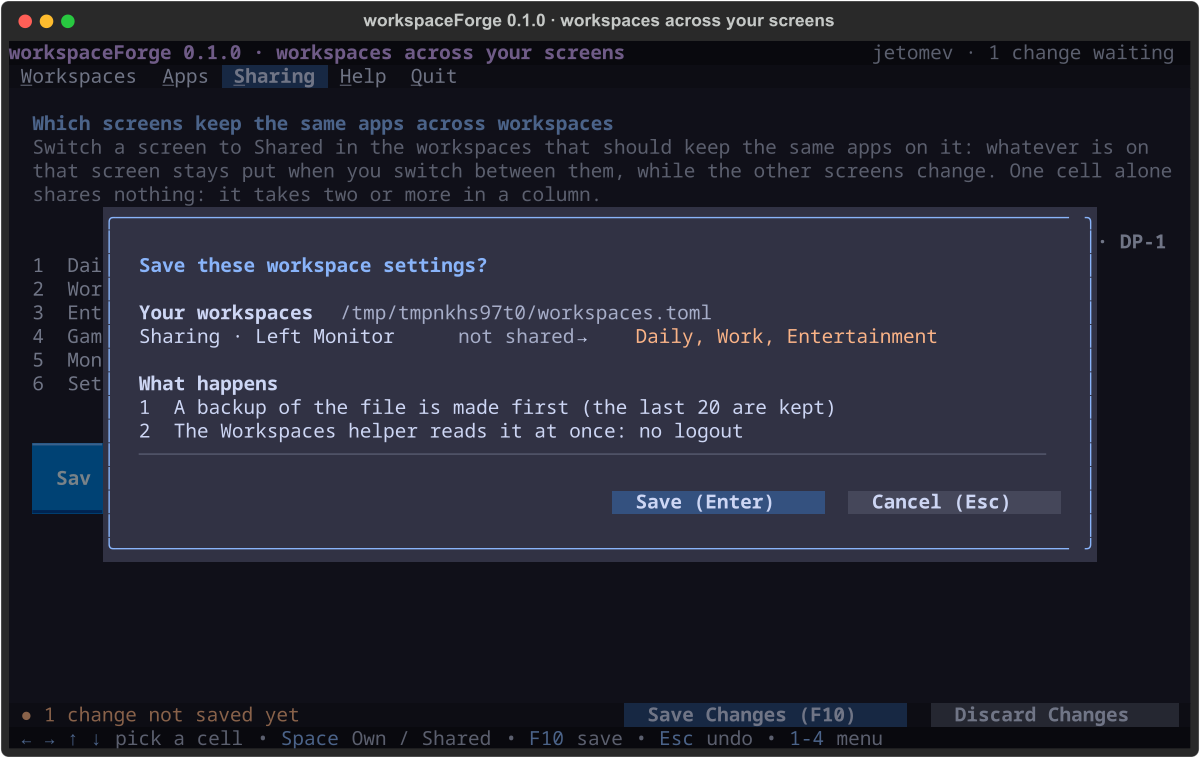
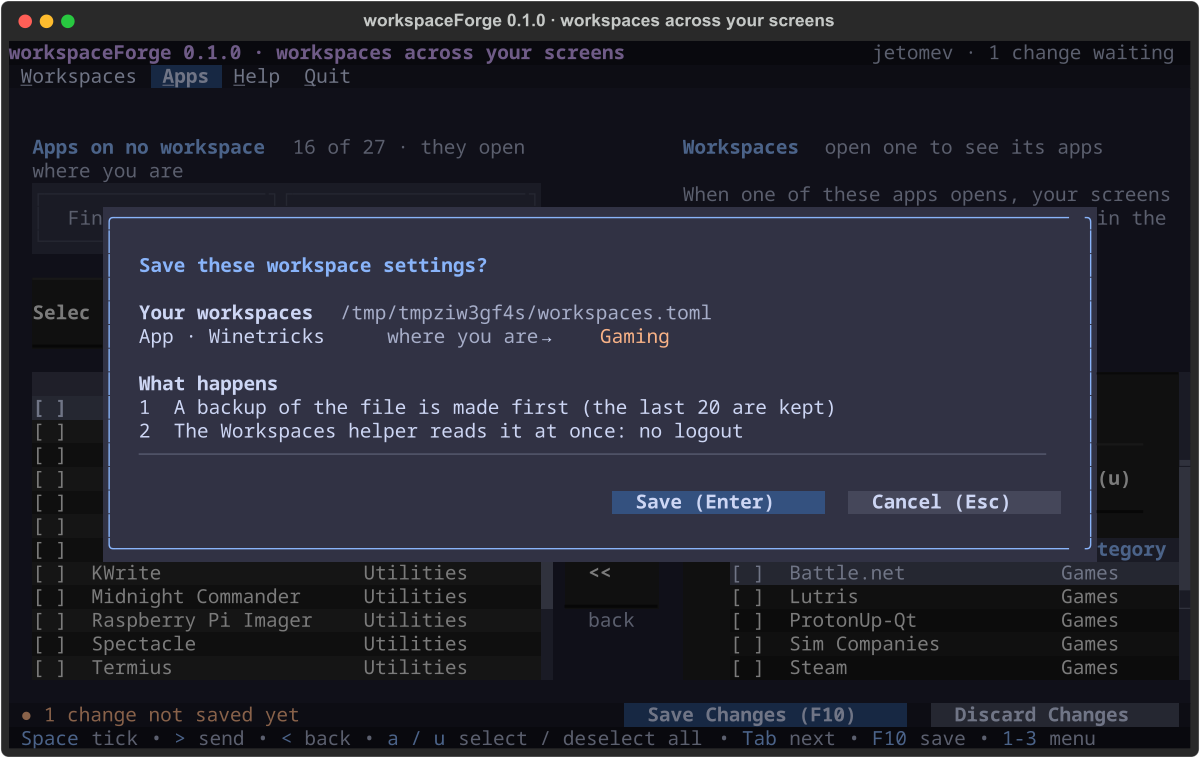
feat(workspaceforge): Sharing off the menu for now (Javier, D-7)
"Sharing. Not working for me, have to think better about this
section" — then "take sharing off for now". The page leaves the menu
and the manual; SharingView stays in app.py, dormant. Saving keeps
whatever the settings file says about sharing (a test, seen failing
with the sharing dropped). 33 tests.

diff --git a/workspaceforge/tests/test_app.py b/workspaceforge/tests/test_app.py
@@ -12,7 +12,7 @@ from pathlib import Path
 from textual.widgets import Collapsible, Input, OptionList
 
 from workspaceforge import model as M
-from workspaceforge.app import AppsView, ShareCell, SharingView, TickTable, WorkspaceForgeApp, WorkspacesView
+from workspaceforge.app import AppsView, TickTable, WorkspaceForgeApp, WorkspacesView
 from workspaceforge.live import NoDesktop
 
 FILE = '''
@@ -77,16 +77,14 @@ class Pages(unittest.TestCase):
     # -- the frame -------------------------------------------------------------------------------------
     def test_the_menu_and_its_keys(self):
         app = self.make()
-        self.assertEqual([m["title"] for m in app.MENU], ["Workspaces", "Apps", "Sharing", "Help", "Quit"])
-        self.assertEqual([m.get("acc") for m in app.MENU[:4]], ["w", "a", "s", "h"])
+        self.assertEqual([m["title"] for m in app.MENU], ["Workspaces", "Apps", "Help", "Quit"],
+                         "Sharing is off the menu for now (D-7)")
+        self.assertEqual([m.get("acc") for m in app.MENU[:3]], ["w", "a", "h"])
 
         async def go():
             async with app.run_test(size=(100, 30)) as pilot:
                 await pilot.press("2")
                 self.assertTrue(app.query_one("#sec-apps").display)
-                await pilot.press("ctrl+s")
-                await pilot.pause()
-                self.assertTrue(app.query_one("#sec-sharing").display)
                 await pilot.press("ctrl+w")
                 await pilot.pause()
                 self.assertTrue(app.query_one("#sec-workspaces").display)
@@ -269,30 +267,22 @@ class Pages(unittest.TestCase):
                 self.assertEqual(pool.shown_ids(), ["winetricks", "gimp", "galculator"])
         run(go())
 
-    # -- 3 · Sharing ---------------------------------------------------------------------------------------
-    def test_a_switch_per_cell(self):
+    # -- sharing, off the menu for now (D-7) -------------------------------------------------------------
+    def test_saving_keeps_the_files_sharing(self):
+        self.path.write_text(FILE.replace('"DP-2" = []', '"DP-2" = [["Daily", "Work"]]'))
         app = self.make()
 
         async def go():
             async with app.run_test(size=(100, 30)) as pilot:
-                await pilot.press("3")
+                await pilot.pause()
+                app.session.rename(self.uid(app, "Gaming"), "Games")
+                await pilot.press("f10")
+                await pilot.pause()
+                await pilot.press("enter")
                 await pilot.pause()
                 await pilot.pause()
-                cells = list(app.query(ShareCell))
-                self.assertEqual(len(cells), 4 * 3)
-                left_daily = app.query_one(f"#sc-{self.uid(app, 'Daily')}-1", ShareCell)
-                left_work = app.query_one(f"#sc-{self.uid(app, 'Work')}-1", ShareCell)
-                left_daily.focus()
-                await pilot.press("space")
-                self.assertEqual(app.session.change_count, 0, "one cell alone shares nothing")
-                await pilot.press("down", "space")
-                await pilot.pause()
-                self.assertIs(app.focused, left_work, "arrows move between the switches")
-                self.assertIn(("Sharing · DP-2", "not shared", "Daily, Work"), app.session.changes())
-                await pilot.press("escape")
-                await pilot.pause()
-                self.assertEqual(app.session.change_count, 0, "Esc undoes the sharing changes")
         run(go())
+        self.assertEqual(tomllib.loads(self.path.read_text())["share"]["DP-2"], [["Daily", "Work"]])
 
     # -- saving and quitting -------------------------------------------------------------------------------
     def test_save_reviews_backs_up_moves_windows_and_reloads(self):
@@ -356,7 +346,7 @@ class Drawing(unittest.TestCase):
 
             async def go():
                 async with app.run_test(size=(100, 30)) as pilot:
-                    for key in ("1", "2", "3"):
+                    for key in ("1", "2"):
                         await pilot.press(key)
                         await pilot.pause()
                         for w in app.screen.query("Button"):

diff --git a/workspaceforge/workspaceforge/app.py b/workspaceforge/workspaceforge/app.py
@@ -881,23 +881,22 @@ class WorkspaceForgeApp(ForgeApp):
     MENU = [
         {"id": "workspaces", "title": "Workspaces", "kind": "section"},
         {"id": "apps", "title": "Apps", "kind": "section"},
-        {"id": "sharing", "title": "Sharing", "kind": "section"},
         {"id": "help", "title": "Help", "kind": "menu", "items": [
             ("Manual", "m", "manual"), ("Keys", "k", "shortcuts"), ("License", "l", "license"),
             ("About", "a", "about")]},
         {"id": "quit", "title": "Quit", "kind": "action", "action": "quit"},
     ]
     SHORTCUTS = [
-        ("1-4, Ctrl+letter", "go to a menu entry: 1 Workspaces · 2 Apps · 3 Sharing · 4 Help"),
+        ("1-3, Ctrl+letter", "go to a menu entry: 1 Workspaces · 2 Apps · 3 Help"),
         ("↑ ↓", "pick a workspace (Workspaces) · move in a table (Apps)"),
         ("n · e · d", "new · edit · delete a workspace (Workspaces)"),
         ("+ · -", "move the picked workspace up · down: its Win number changes"),
-        ("Space", "tick an app (Apps) · switch a cell between Own and Shared (Sharing)"),
+        ("Space", "tick an app (Apps)"),
         ("> · <", "send the ticked apps to the open workspace · back to the list (Apps)"),
         ("a · u", "select all · deselect all, only the rows showing (Apps)"),
         ("Tab / Shift+Tab", "next / previous field, table or button"),
         ("F10", "save, with a review first"),
-        ("Esc", "cancel a new name or an edit · undo the sharing changes · close a window"),
+        ("Esc", "cancel a new name or an edit · close a window"),
         ("M", "the manual"),
         ("?", "this list"),
         ("Q or Ctrl+Q", "quit; asks to save anything not saved (not inside hypeForge Settings)"),
@@ -935,7 +934,8 @@ class WorkspaceForgeApp(ForgeApp):
     def compose_sections(self) -> ComposeResult:
         yield WorkspacesView(self.session, self.live, id="sec-workspaces")
         yield AppsView(self.session, self.installed, id="sec-apps")
-        yield SharingView(self.session, id="sec-sharing")
+        # Sharing is off the menu for now (Javier, 2026-10-09, D-7: "have to think better about this
+        # section"); SharingView stays below for when it comes back. Saving keeps the file's sharing.
 
     def on_mount(self) -> None:
         super().on_mount()
@@ -959,8 +959,6 @@ class WorkspaceForgeApp(ForgeApp):
         elif section_id == "apps":
             self.query_one(AppsView).refresh_view()
             self.call_after_refresh(self.query_one("#wf-pool").focus)
-        elif section_id == "sharing":
-            self.query_one(SharingView).refresh_view()
 
     def refresh_state(self) -> None:
         n = self.session.change_count
@@ -981,7 +979,6 @@ class WorkspaceForgeApp(ForgeApp):
             self.query_one(WorkspacesView).renamed = None
             self.query_one(WorkspacesView).refresh_view()
             self.query_one(AppsView).refresh_view()
-            self.query_one(SharingView).refresh_view()
             self.refresh_state()
             self.notify("Changes discarded. Nothing was changed.")
 
@@ -1022,7 +1019,6 @@ class WorkspaceForgeApp(ForgeApp):
             ws.picked is None or not se.pending.has(ws.picked)) else ws.picked
         ws.refresh_view()
         self.query_one(AppsView).refresh_view()
-        self.query_one(SharingView).refresh_view()
         self.refresh_state()
         self.notify(f"Saved to {path}" + (" (old one backed up)" if backup else "") +
                     (". Your workspaces changed at once." if reloaded else

diff --git a/workspaceforge/scripts/make-screenshots.py b/workspaceforge/scripts/make-screenshots.py
@@ -76,13 +76,8 @@ async def shots():
         pool = app.query_one("#wf-pool")
         pool.set_tick("winetricks", True)
         await shot("apps")
-        await pilot.press("3")
-        for name in ("Daily", "Work", "Entertainment"):
-            se.set_shared("DP-2", uid(name), True)
-        app.query_one("#sec-sharing").shown = ()
-        app.query_one("#sec-sharing").refresh_view()
+        app.session.assign(["winetricks"], uid("Gaming"))
         app.refresh_state()
-        await shot("sharing")
         await pilot.press("f10")
         await shot("save")
 

diff --git a/workspaceforge/README.md b/workspaceforge/README.md
@@ -11,22 +11,22 @@
 
 # workspaceForge
 
-**Your workspaces, in the terminal.** On the KognogOS desktop a workspace covers all your screens at once: Win + 4 takes every screen to Gaming. workspaceForge is where you set them up: their names and order, **which apps open on each one** (however you start them), and which screens keep the same apps across workspaces. Today all of that lives in a settings file edited by hand; workspaceForge is the friendly way in.
+**Your workspaces, in the terminal.** On the KognogOS desktop a workspace covers all your screens at once: Win + 4 takes every screen to Gaming. workspaceForge is where you set them up: their names and order, **which apps open on each one** (however you start them). Today all of that lives in a settings file edited by hand; workspaceForge is the friendly way in.
 
 ## What it does
 
 - **Workspaces:** name them, add up to nine for now (Win + 1 … 9), reorder, delete. Deleting one never closes a window; its windows move to a workspace you pick.
 - **Apps:** each workspace has a list of the apps that open on it. Steam on Gaming, Spotify on Entertainment. Start an app from the launcher, a terminal or Steam itself, and it opens on its workspace, with your screens following it. Apps on no list open where you are.
-- **Sharing:** a screen can keep the same apps across several workspaces (say, your chat on the left screen in Daily, Work and Entertainment) while the other screens change.
+- **Sharing** (a screen keeping the same apps across workspaces) is being rethought by Javier and comes back later; the file's sharing is kept as it is.
 - **Saves with a review**, a backup first, and applies at once. No logout.
 
 It does **one** job on purpose: where windows sit on a screen and which ones float is a separate Forge app.
 
 ## How it looks
 
-| Workspaces | Apps | Sharing |
-|---|---|---|
-| ![Workspaces](docs/images/workspaces.png) | ![Apps](docs/images/apps.png) | ![Sharing](docs/images/sharing.png) |
+| Workspaces | Apps |
+|---|---|
+| ![Workspaces](docs/images/workspaces.png) | ![Apps](docs/images/apps.png) |
 
 ## Status
 

diff --git a/workspaceforge/workspaceforge/manual/01-start.md b/workspaceforge/workspaceforge/manual/01-start.md
@@ -2,11 +2,12 @@
 
 workspaceForge sets up your **workspaces**: the desks that cover all your screens at once (Win + 4 takes every screen to Gaming). It edits the settings of hypeForge's Workspaces helper, which does the actual switching; your workspaces keep working with workspaceForge closed.
 
-## The three pages
+## The two pages
 
 - **1 · Workspaces** — names and order: new, edit, delete, move up and down, and the main switch (all screens together, or each screen by itself).
 - **2 · Apps** — which apps open on each workspace, however you start them.
-- **3 · Sharing** — which screens keep the same apps across workspaces.
+
+**Sharing** (a screen keeping the same apps across workspaces) is being rethought and comes back in a later version. Whatever your settings file already says about it is kept when you save.
 
 ## Saving
 
@@ -16,6 +17,6 @@ Nothing changes until you save. The bar at the bottom counts your changes. **F10
 
 ## Moving around
 
-- **1 – 4**, or **Ctrl** + the underlined letter: Workspaces, Apps, Sharing, Help.
+- **1 – 3**, or **Ctrl** + the underlined letter: Workspaces, Apps, Help.
 - **Tab / Shift + Tab**: next / previous field, table or button.
 - **?**: every key. **M**: this manual. **Q**: quit (it asks first if something isn't saved).

diff --git a/workspaceforge/TODO.md b/workspaceforge/TODO.md
@@ -29,7 +29,8 @@
 - [x] Manual (5 pages), `--hypeforge`, the **Workspaces** page in hypeForge Settings (repo + live) and its Home card
 - [x] Tests: 33 (model 18, pages 15), 12 behaviours broken on purpose — 12 caught; 100 × 30 pictures checked by eye (found 3 bugs: a rename counted its apps as changes, sharing planned clashing renames, clipped text — fixed, with tests); text console preview clean; `scripts/bench-save.py` (rename + swap + delete on a hidden Sway) OK twice
 - [x] **Javier's first run (2026-10-09 ~13:40):** Workspaces "works well"; Apps "work well", but both tables should be at the same height → one header row across both sides, the tables start and end on the same lines (fixed the same hour)
-- [ ] **Sharing — Javier: "Not working for me, have to think better about this section."** Waiting for his thinking; meanwhile his call whether the page stays in 0.1.0
+- [x] Sharing off the menu for now (Javier, D-7); the file's sharing kept on save
+- [ ] **Sharing, rethought** — waits on Javier ("have to think better about this section"); SharingView dormant in app.py
 - [ ] More than nine workspaces (D-6): the applet's cell naming changes first, with a bench test
 - [ ] Not yet tried: one or two screens (a VM), a real tty
 

diff --git a/workspaceforge/docs/DECISIONS.md b/workspaceforge/docs/DECISIONS.md
@@ -4,6 +4,9 @@
 
 ## 2026-10-09
 
+### D-7 · Sharing is off the menu for now (Javier)
+After his first run: *"Sharing. Not working for me, have to think better about this section."* and then *"take sharing off for now."* The page is gone from the menu and the manual; its code stays in `app.py` (SharingView), dormant. Saving keeps whatever the settings file says about sharing (nothing is shared on the desktop today). It comes back when Javier has rethought it.
+
 ### D-6 · 0.1.0 stops at nine workspaces (Claude, told to Javier)
 The approved answer 1 (D-5) was *as many as you like; Win + 1 … 9 reach the first nine*. Building it showed the Workspaces applet names each screen's part of a workspace `<n + 10 × screen>:<name>`, which only works up to nine: a tenth would clash with the second screen's first. Changing that naming renames every workspace on the desktop, so it gets its own step with its own bench test. **0.1.0 allows one to nine** and says so on screen ("9 is the most for now"); more than nine is in the TODO.
 
